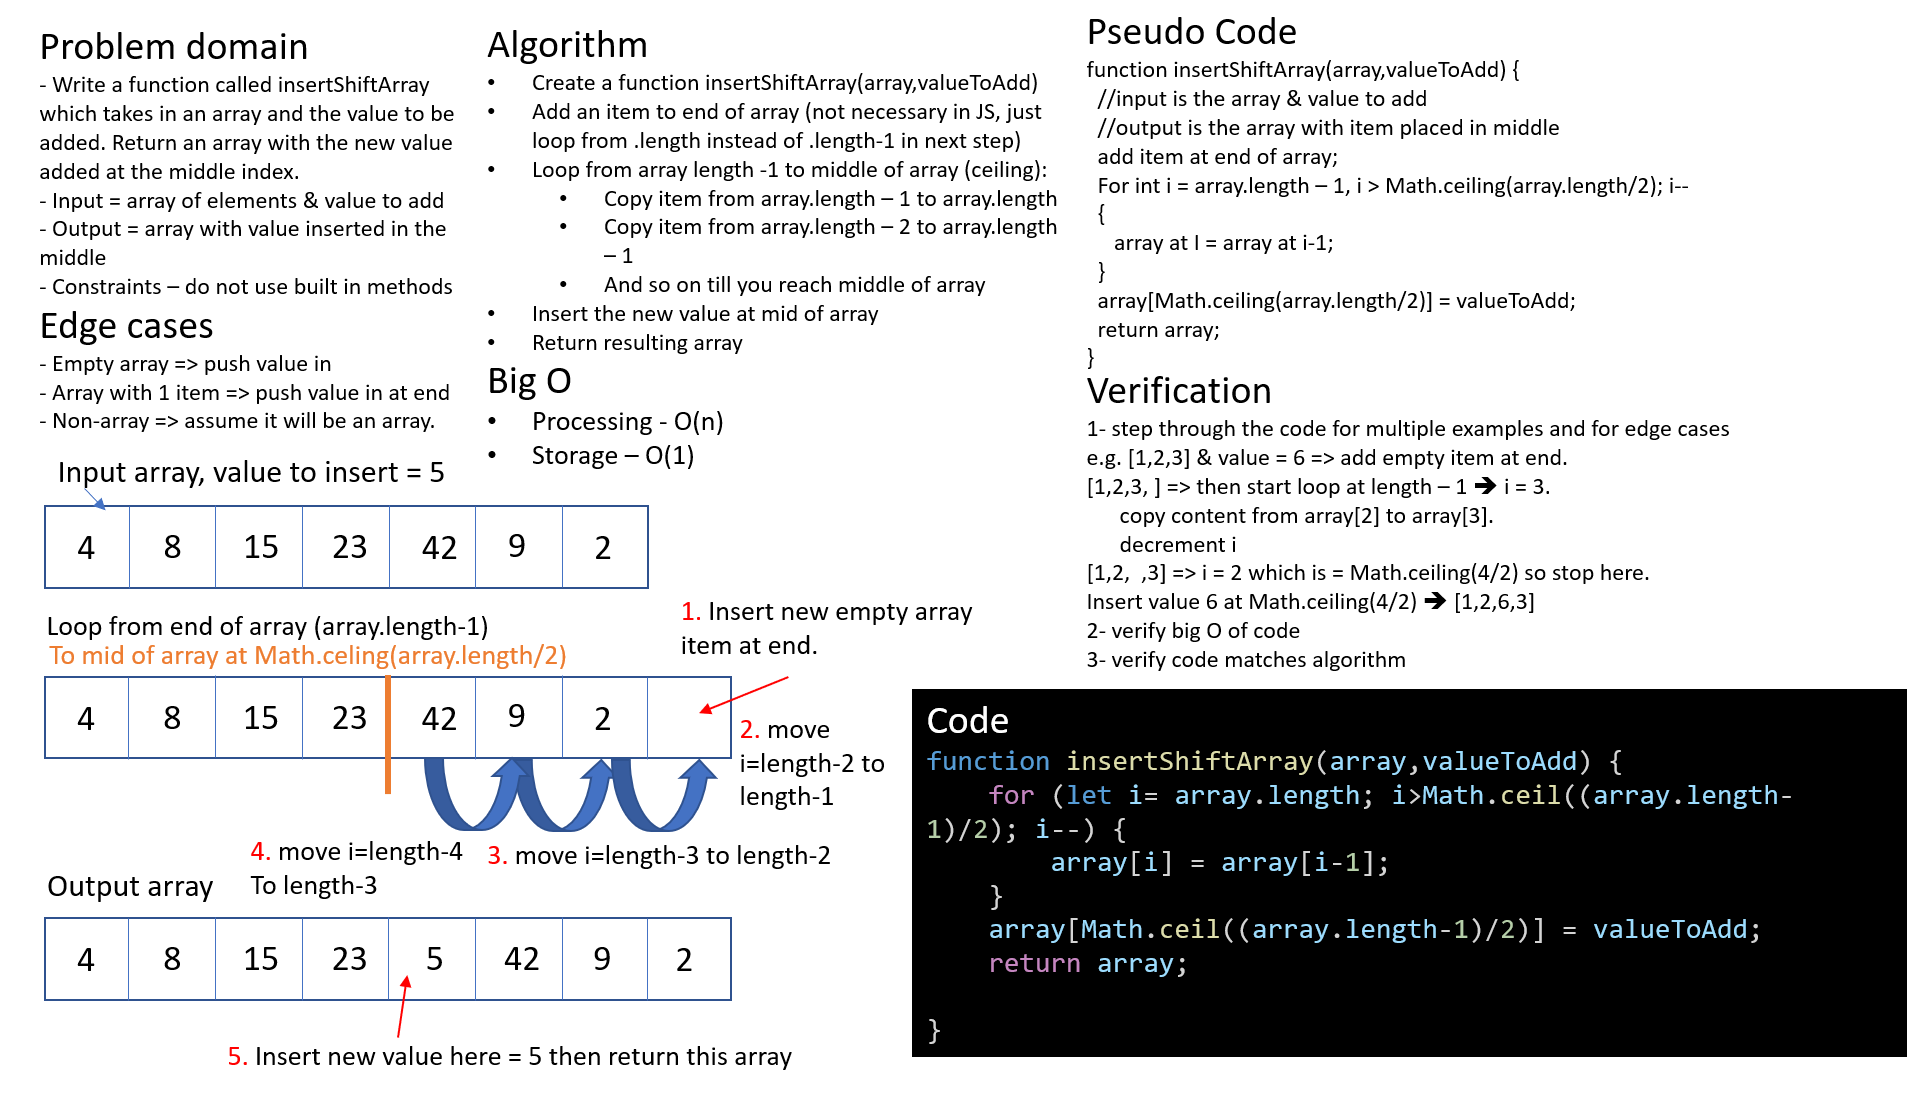
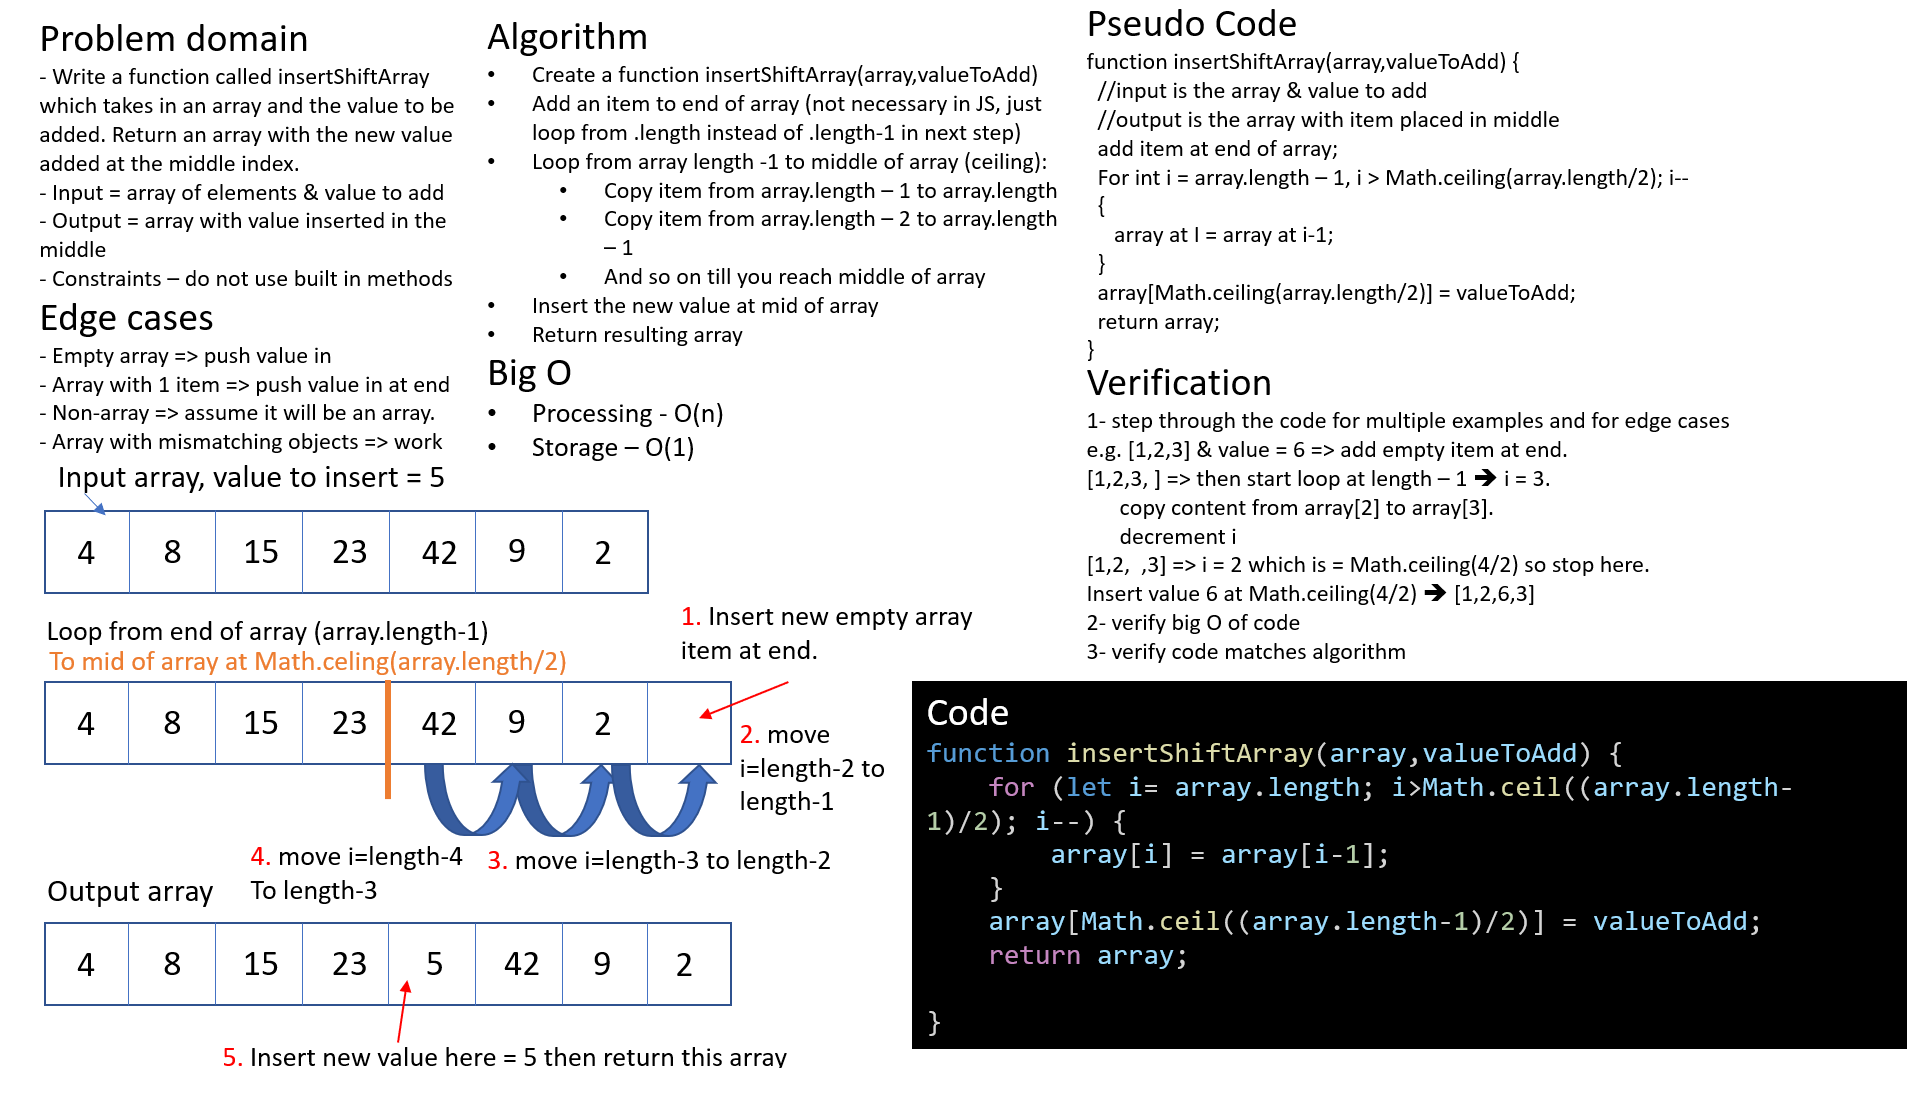
minor updates to readme

diff --git a/javascript/code-challenges/arrays/arrayShift/README.md b/javascript/code-challenges/arrays/arrayShift/README.md
@@ -1,0 +1,28 @@
+# Challenge Summary
+Code challenge for class 02: shifting an array without using built in functions.
+
+## Challenge Description
+
+Write a function called insertShiftArray which takes in an array and the value to be added. Return an array with the new value added at the middle index.
+
+- Input = array of elements & value to add.
+- Output = array with value inserted in the middle.
+- Constraints – do not use built in methods.
+
+Edge cases
+- Empty array => push value in
+- Array with 1 item => push value in at end.
+- Non-array => assume it will be an array.
+- Array with mismatching types => should work as normal.
+- Array with odd number of items => insert after middle of original array.
+- Array with even number of items => insert exactly in the middle of new array.
+
+## Approach & Efficiency
+
+I took the approach of shifting each item int he second half of the array one spot to the right, in-place, then inserting the item in the middle.
+
+This will loop n/2 times, so time efficiency is O(n).
+This will only require one new storage spot at the end of the array, so storage efficiency is O(1).
+
+## Solution
+![array-shift](assets/array-shift.png)
